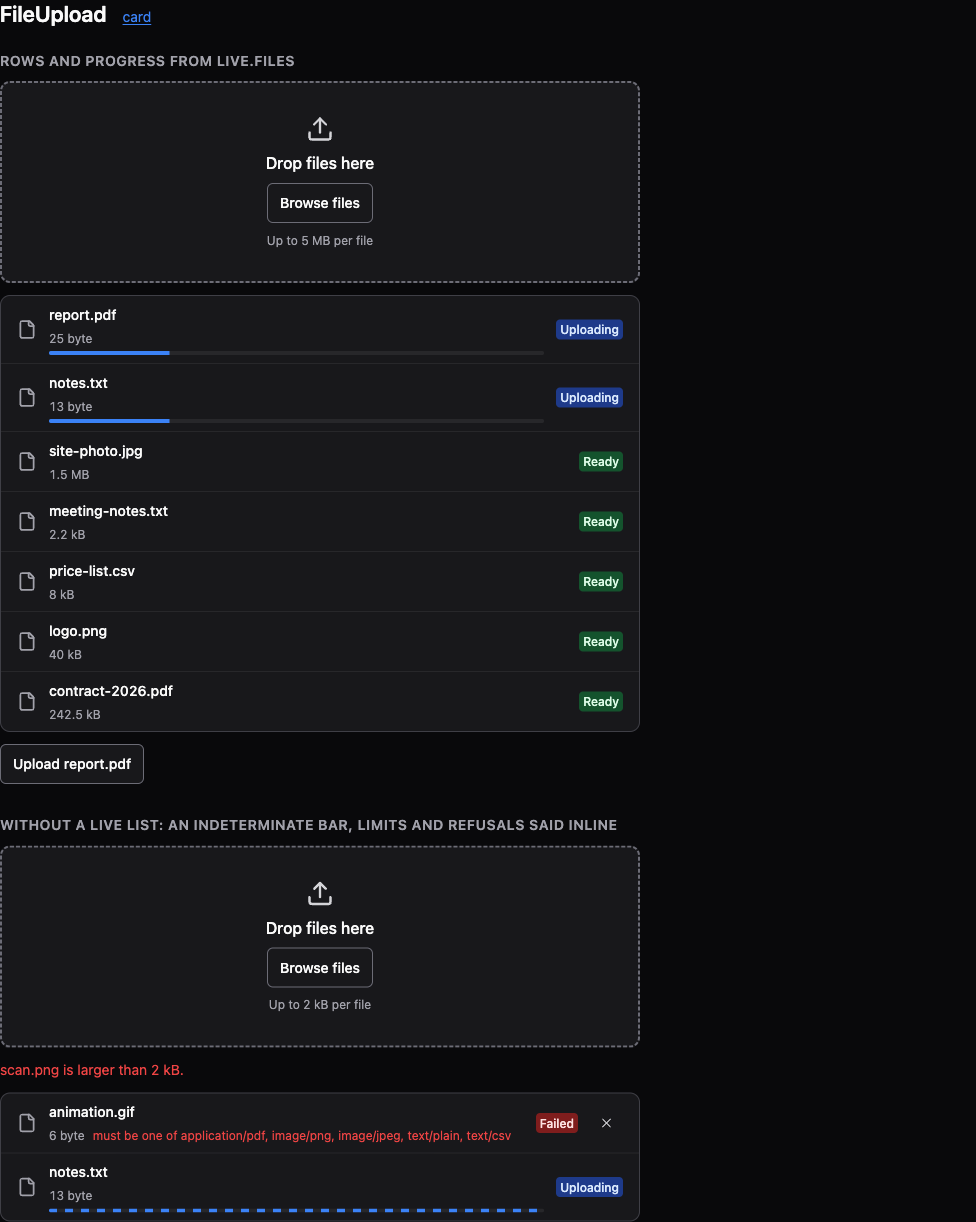
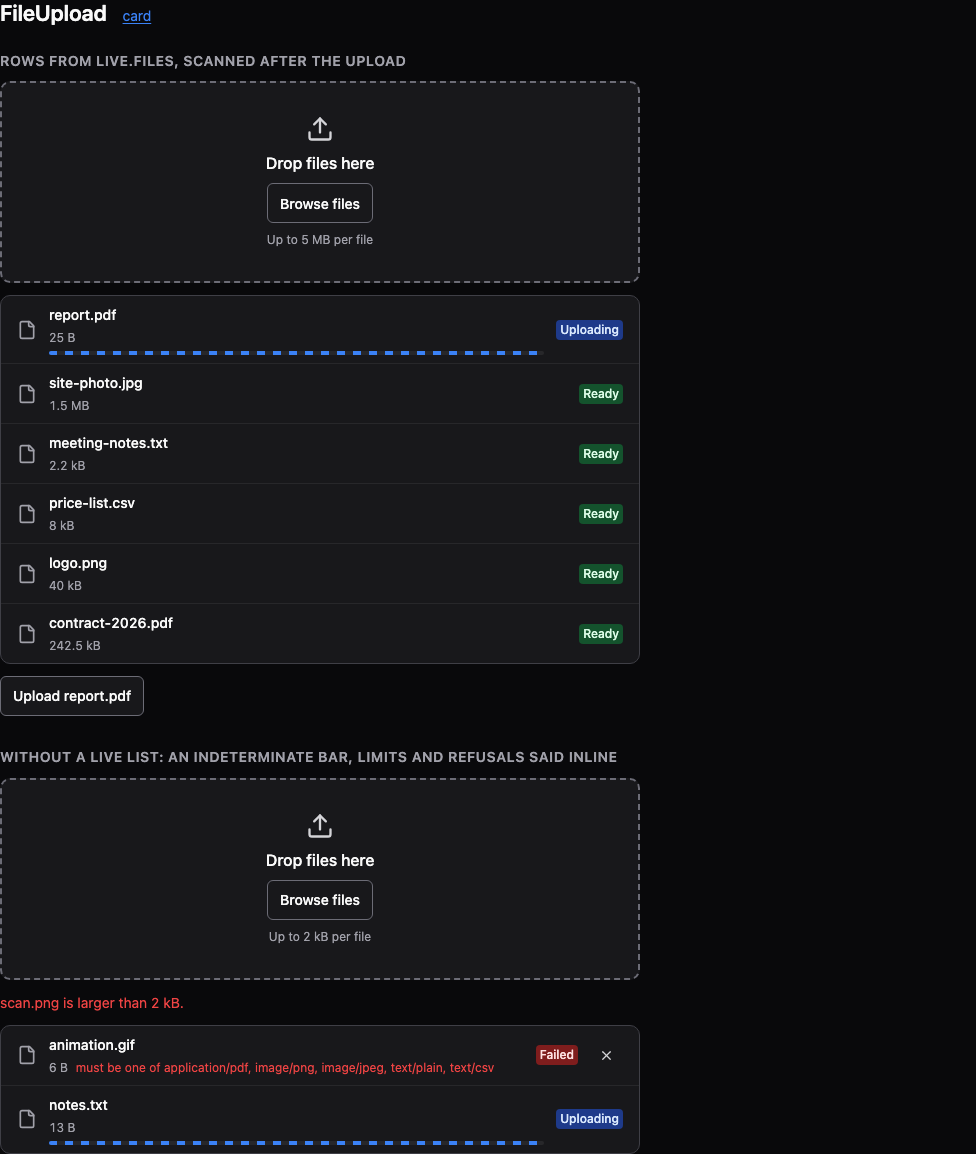
docs: decisions D73-D79, screenshots, index and the run report of the library sync

diff --git a/ui/blocks/JobProgress/JobProgress.vue b/ui/blocks/JobProgress/JobProgress.vue
@@ -56,11 +56,11 @@ const badge = computed(() => (current.value?.status === 'running' && current.val
   ? { variant: 'neutral' as const, label: 'ui.cancelling' }
   : badges[current.value?.status ?? 'queued']))
 
-// A list row carries no result (govengers/jobs leaves it out of the list): a succeeded row is
-// read once through the item read. A finished job never changes, so once is enough.
+// A list row carries no result (govengers/jobs leaves it out of the list): a succeeded row
+// without one is read once through the item read. A finished job never changes.
 const fetched = shallowRef<{ id: string; connection: unknown; result: unknown }>()
 const wantsResult = props.resultRoute !== undefined || slots.result !== undefined
-watch([() => (props.job?.status === 'succeeded' ? props.job.id : undefined), connection], async ([id, socket]) => {
+watch([() => (props.job?.status === 'succeeded' && props.job.result == null ? props.job.id : undefined), connection], async ([id, socket]) => {
   if (id === undefined || props.target === undefined || !wantsResult || (fetched.value?.id === id && fetched.value.connection === socket)) return
   try {
     const item = await socket.query(props.target, { id })
@@ -72,7 +72,7 @@ watch([() => (props.job?.status === 'succeeded' ? props.job.id : undefined), con
 const result = computed(() => {
   const job = current.value
   if (job?.status !== 'succeeded') return undefined
-  if (props.job === undefined) return job.result ?? undefined
+  if (props.job === undefined || job.result != null) return job.result ?? undefined
   return fetched.value?.id === job.id && fetched.value.connection === connection.value ? fetched.value.result ?? undefined : undefined
 })
 const route = computed(() => (result.value === undefined || current.value === undefined ? undefined : props.resultRoute?.(result.value, current.value)))

diff --git a/INDEX.md b/INDEX.md
@@ -70,7 +70,7 @@ Find by intent (Ctrl-F a word you would say), open the card, then the code next 
 | [FeedbackCapture](ui/blocks/FeedbackCapture/FeedbackCapture.md) | feedback, report a bug, bug report, send feedback, feature request, support request, console log capture, screenshot report | Dialog, Field, Select, Textarea, Checkbox, Banner, Button | yes | postels-law, teslers-law, peak-end-rule | ready | The report dialog (D65): kind (bug, idea, question), text and, for bugs, severity. When it opens it freezes the technical details: the last console errors and warnings, uncaught errors, failed requests (from the ring buffer `installFeedbackBuffer()` keeps), the environment, and through an optional hook a screenshot of the page taken before the dialog covers it. "Exactly what will be sent" prints the very report the Send button sends; unticking the details or the screenshot removes them from both. Credentials are redacted at any depth when they enter the buffer. |
 | [FileUpload](ui/blocks/FileUpload/FileUpload.md) | file upload, upload files, dropzone, drag and drop upload, attachments, upload progress, document upload, image upload | Badge, Button, Icon, format | yes | doherty-threshold, goal-gradient-effect, paradox-of-the-active-user | ready | A dropzone and the list of files being uploaded and uploaded. The dropzone is a `<label>` around the native file input, so a click, Enter and a drop all work. Each file shows its name, size, a progress bar, a status Badge and a remove button. Size and count limits are said inline. Uploads go through the pair's `Client.upload`. |
 | [ImpersonationBanner](ui/blocks/ImpersonationBanner/ImpersonationBanner.md) | impersonation, impersonate, act as user, login as user, support mode, admin acting as, stop impersonating, view as | Badge, Banner, Button, format, session | no | von-restorff-effect, selective-attention | ready | The shell's notice while an admin acts as another user through govengers/auth's impersonation (D59): "You are acting as Bob on behalf of Ada", the time left when the end is known, a Read-only badge when the app forbids writes, and "Stop acting as Bob". Renders nothing while the identity has no impersonator. Put it into `AppShell`'s `banners` slot next to `ConnectionBanner`. |
-| [JobProgress](ui/blocks/JobProgress/JobProgress.md) | job progress, background job, long running task, export progress, import status, progress bar, async result | Badge, Banner, Button, Skeleton, format | yes | doherty-threshold, goal-gradient-effect, peak-end-rule, teslers-law, zeigarnik-effect | ready | One background job (D29): what it does, its status badge, a progress bar while it runs, why it failed, and an "Open result" button once it succeeded with a result route. Follows the job live by id, or shows a job the page already reads; a compact `inline` variant fits a list row. |
+| [JobProgress](ui/blocks/JobProgress/JobProgress.md) | job progress, background job, long running task, export progress, import status, progress bar, async result, cancel job, retry job | Badge, Banner, Button, Skeleton, format | yes | doherty-threshold, goal-gradient-effect, peak-end-rule, teslers-law, zeigarnik-effect | ready | One background job (D29) as govengers/jobs answers it (its `postgresadapter.View`): what it does, its status badge, a progress bar while it runs (indeterminate until the job reports), the handler's last progress message, why it failed and what the failure's class means, Cancel and Retry when the page passes the jobs mutations, and "Open result" once it succeeded with a result the page can route to. Follows the job live by id, or shows a job the page already reads; a compact `inline` variant fits a list row. |
 | [LiveForm](ui/blocks/LiveForm/LiveForm.md) | live form, edit form state, useLiveForm, touched fields, dirty form, unsaved changes, save only changed fields, patch form, edit conflict, form field errors |  | yes | peak-end-rule, postels-law, teslers-law, zeigarnik-effect | ready | `useLiveForm` in `liveForm.ts`, a composable, not a component: the state of an edit form over one live record (D33). Save sends only the touched fields. A push refills only the untouched ones; a touched field keeps the user's text. Field errors come from `ApiError.fields`, and a retried save keeps its Idempotency-Key. Render it with `DetailForm` or with your own Field stack. |
 | [LoginForm](ui/blocks/LoginForm/LoginForm.md) | login form, sign in, log in, password login, user name or email, two-factor, 2fa code, backup code, one-time code, sso button, oidc login, github login, sso first | Card, Banner, Button, Field, Input | no | parkinsons-law, hicks-law | ready | The sign-in card against govengers/auth (D57): user name or email and password, the redirect providers (OIDC, GitHub) as buttons from a prop, and the TOTP step with a switch to a backup code. `layout="sso"` puts the providers first and the password form behind a link. The page passes `login` (the session module's `login` plus the navigation); a refusal with a known govengers/auth `code` shows as its own sentence. Centre it with the `LoginPage` recipe. |
 | [Markdown](ui/blocks/Markdown/Markdown.md) | markdown, render markdown, markdown editor, rich text, comment box, description editor, task list, paste image, drop image, mention, at mention, preview | Button, Icon, Tabs, Textarea, format | yes | jakobs-law, postels-law, aesthetic-usability-effect | ready | `MarkdownView` renders GitHub-flavoured markdown (task lists, tables, code, links, images) as sanitised HTML; `MarkdownEditor` is a Textarea with a format toolbar, a Write and Preview switch, images pasted, dropped or picked uploaded through an upload descriptor, and an `@` mention list the page feeds. The block brings two dependencies (D3, D66): `marked` (the renderer) and `dompurify` (the sanitiser). |
@@ -163,6 +163,7 @@ Every intent keyword and the pieces that answer it.
 - **button**: [Button](ui/Button/Button.md)
 - **bytes**: [format](ui/format.md)
 - **cancel and save**: [ActionBar](ui/ActionBar/ActionBar.md)
+- **cancel job**: [JobProgress](ui/blocks/JobProgress/JobProgress.md)
 - **card**: [Card](ui/Card/Card.md)
 - **cards on phone**: [Table](ui/Table/Table.md)
 - **change password**: [LoginPage](pages/LoginPage/LoginPage.md)
@@ -470,6 +471,7 @@ Every intent keyword and the pieces that answer it.
 - **report a bug**: [FeedbackCapture](ui/blocks/FeedbackCapture/FeedbackCapture.md)
 - **required**: [Field](ui/Field/Field.md)
 - **responsive table**: [Table](ui/Table/Table.md)
+- **retry job**: [JobProgress](ui/blocks/JobProgress/JobProgress.md)
 - **revoke key**: [ApiKeyManager](ui/blocks/ApiKeyManager/ApiKeyManager.md)
 - **rich text**: [Markdown](ui/blocks/Markdown/Markdown.md)
 - **row actions**: [Menu](ui/Menu/Menu.md), [Table](ui/Table/Table.md)

diff --git a/docs/design.md b/docs/design.md
@@ -401,3 +401,54 @@ switchable style presets.
   not the cards around it at lift time. A card another user put between the card above and the
   lifted one would otherwise draw the lifted card above it and turn a put-back into a move.
   Amends D71.
+
+## Sync with the libraries (16.11.2026)
+
+- **D73 The runtime is vendored from a livewire commit until it is released.** `demo/src/api/`
+  holds livewire `main` at 95e50bc (after v1.0.1, PR #13 merged, no tag yet), header naming the
+  commit; the next tag replaces it byte for byte. Amends D40. With it the collection drops its
+  workarounds: `useLiveList` keeps the rows and total of a changed query until the new first page
+  and drops them on the connection's end (livewire D76, D83), so `SearchTable` and `Board` read
+  `list.items` and `total` directly instead of holding the last rows per connection; the generic
+  `ListQuery`, `FilterDocument`, `SearchableFilterDocument` come from `runtime.ts` (livewire D78),
+  so `SearchTable`, `Board`, `NotificationInbox`, `CommandPalette`, `FacetFilter` and the demo's
+  `api.ts` stop redeclaring them.
+- **D74 The starter shell mounts the product pieces.** `templates/project/App.vue` mounts
+  `WhatsNew`, `UpdateHint`, `NotificationInbox`, `FeedbackCapture`, `ImpersonationBanner` and
+  `CommandPalette`, each as one marked block (import, state, tag) a project deletes when its
+  server side is missing; `main.ts` installs the feedback buffer, `changelog.ts` and
+  `changelog/0.1.md` feed WhatsNew. start-project stage 02 names what each needs from the
+  backend and asks which to keep. `scripts/template-check.ts` stands the generated `api.ts` in
+  with `scripts/fixtures/api.ts` (the declarations the shell names, excluded from the root
+  type-check because its `./runtime` exists only in the target) and parses the starter
+  changelog. Removal is a deletion, not a configuration flag: one way per job (P2).
+- **D75 JobProgress shows govengers/jobs' job view.** `JobLike` is the part of
+  `postgresadapter.View` the block reads: status `cancelled` added, `progress` nullable (an
+  indeterminate bar until the first report, never 0 %), `progressMessage`, `result`, `error`,
+  `errorClass` (a sentence for `permanent` and `lease_expired`), `cancelRequested` (badge
+  "Cancelling"). Cancel and Retry are bound to the mutations `livewireadapter` declares
+  (`cancelJob`, `retryJob`, props, `data-action` = their names), shown only when the page passes
+  them and the status allows (cancel while queued or running without a pending cancel, retry
+  when dead). The result comes from the item read, as the list leaves it out: a list row that
+  succeeded without one reads its item once (a finished job does not change), and a page's
+  `resultRoute(result, job)` turns it into the "Open result" link; a `result` slot shows a
+  summary. The view has no `resultRoute` field, so D29's row field is gone. The fake engine's
+  jobs follow the view (list items without result, cancel and retry with govengers/jobs' 409s).
+- **D76 FileUpload counts the bytes it sends.** `Client.upload`'s `onProgress` (livewire D79)
+  drives the bar; it stays indeterminate where the runtime cannot report (bun, `credentials:
+  'omit'`, an application fetch such as the demo's). Server rows no longer carry progress. A
+  server pushes the file's row before its answer arrives, so until the answer a row that joined
+  the list after the upload started, with the file's name and size, hides behind the upload; the
+  answer's id then hands over to the row. The fake engine inserts the row at the end of the body
+  and scans it afterwards (`scanning`, then `ready`).
+- **D77 LoginPage's `change` is optional.** Without it there is no change-password screen
+  (`state="changePassword"` shows the sign-in) and the starter router passes none, because
+  govengers/auth has no change-password route; `LoginRoute.vue` binds `loginProps` whole, so a
+  project that adds `change` there gets the screen.
+- **D78 The impersonation end comes from govengers/auth.** auth D70 answers
+  `impersonationEndsAt` on `/auth/me` while impersonating; `SessionIdentity` documents it and the
+  banner counts down without app code. `endsAt` stays as an override for older auth releases. An
+  unreadable end is no countdown, not an ended impersonation. Amends D59.
+- **D79 Mounted tests have a router and cover the page recipes.** `scripts/test/mount.ts`
+  installs a memory router (links render, navigation goes nowhere) and `setup.ts` exposes jsdom's
+  `history`; `bun test` runs `pages` too, so recipes get mounted tests like blocks (amends D69).

diff --git a/journal/runs/2026-11-16-maintain-collection-sync-with-libraries.md b/journal/runs/2026-11-16-maintain-collection-sync-with-libraries.md
@@ -1,0 +1,50 @@
+---
+date: 16.11.2026
+workbook: maintain-collection
+project: govengers/ui
+outcome: done
+duration: about 3 h
+groomed: no
+---
+
+## Task
+Sync the collection with the libraries: re-vendor the livewire runtime and drop the SearchTable,
+Board and FileUpload workarounds, JobProgress on govengers/jobs' view, LoginPage `change`
+optional, the starter shell with the product pieces, the impersonation end from govengers/auth.
+
+## What went wrong on first try
+- `bun test pages/...` mounting a piece with a `Button :to` -> vue-router threw `history is not
+  defined` during its first navigation, and the error cascaded into every later test of the file
+  as a vue-i18n compile error -> `setup.ts` exposes jsdom's `history`, `mount.ts` installs a
+  memory router (D79).
+- `scripts/template-check.ts` copied `templates/project/changelog/*.md` through the copy filter
+  that skips every `.md` -> the starter changelog was silently absent and its parse check passed
+  on nothing -> the copy takes a filter argument and the check also fails on zero lines.
+- The FileUpload mounted test passed with the duplicate-hiding switched off: under the fake's
+  latency 0 the row's push and the upload's answer render in one tick -> the test delays the
+  answer three turns behind the push, as a network does.
+
+## Instructions that were wrong or missing
+- workbooks/maintain-collection/stages/04-gates: `bun test scripts ui demo/src` left `pages`
+  out, so recipe tests would never run (fixed now: yes, also justfile, package.json, CI).
+- ui/session.md and ImpersonationBanner.md said govengers/auth does not answer the end (fixed
+  now: yes, auth D70).
+
+## Questions I had to ask the human
+- none
+
+## Pieces that did not fit
+- JobProgress: govengers/jobs' view has no `resultRoute`; the result is the handler's JSON and
+  only on the item read. Replaced by a `resultRoute(result, job)` prop and a `result` slot (D75).
+
+## Gate friction
+- vue-tsc type-checks `scripts/**`, so a fixture meant for the scaffolded target fails here;
+  excluded `scripts/fixtures` in tsconfig.
+
+## Time sinks
+- Making the FileUpload race reproducible in a mounted test.
+
+## Suggested improvements (for grooming)
+- script: template-check could run the starter's App.vue in jsdom with the fake engine to prove
+  the shell mounts, not only type-checks.
+- workbook start-project 05-verify: name the product pieces' server routes in the browser check.

diff --git a/TODO.md b/TODO.md
@@ -3,11 +3,9 @@
 Defects and ideas seen on the way, one line each with a date. Fixed items are removed.
 
 - 02.11.2026 demo: the demo app does not dogfood AppShell and AgentDock for its own chrome (D14 does not require it); switch when the dock is stable.
-- 02.11.2026 fake engine: no `updateOrder`, no `deleteFile`, jobs have no `error` field; WorkflowStatus and FileUpload demos work around it.
-- 02.11.2026 livewire upstream: findings in DeepThought "govengers-ui-build-lessons" are being fixed on livewire branch `fix/ui-findings`; re-vendor `demo/src/api/` afterwards (D40) and drop the SearchTable and FileUpload workarounds.
+- 02.11.2026 fake engine: no `updateOrder`, no `deleteFile`; the WorkflowStatus and FileUpload demos work around it.
 - 02.11.2026 messages: `ui.step` and `ui.stepOf` carry the same text; keep one.
-- 16.11.2026 LoginPage: `change` is required even when the app has no change-password route; make it optional and hide the state.
-- 16.11.2026 govengers/auth: `IdentityResponse` carries no impersonation end; ImpersonationBanner needs the app to add `impersonationEndsAt`.
 - 16.11.2026 ui-lint: UL-003 flags `font-family: var(--ui-font-mono)`; the rule should accept the font tokens.
 - 16.11.2026 Textarea: exposes only focus(); MarkdownEditor reaches the element through `$el`. Expose the element.
 - 16.11.2026 Board: auto-scroll only while the pointer moves near an edge; columns taller than the screen do not scroll during a drag.
+- 16.11.2026 demo runtime: vendored from livewire main 95e50bc (D73); re-copy from the next livewire tag.

diff --git a/ui/blocks/JobProgress/JobProgress.md b/ui/blocks/JobProgress/JobProgress.md
@@ -85,8 +85,8 @@ const resultRoute = (result: unknown) => ({ name: 'files.detail', params: { id: 
 For a list, read `live.jobs` once with `useLiveList` and give each row `:job="row"
 variant="inline"`: one subscription for the list instead of one per row. The list leaves the
 result out (`null` in its items), so give the rows `:target="live['jobs.item']"` too when they
-offer the result: a row that succeeded reads its item once (`connection.query`), a finished job
-does not change.
+offer the result: a row that succeeded without a result reads its item once
+(`connection.query`), a finished job does not change. A `job` that carries its result uses it.
 
 Cancel and Retry run over the socket; the answer upserts the job into every live read of `jobs`,
 so the badge changes at once. A running job's cancel is a request (`cancelRequested`, badge
@@ -119,5 +119,5 @@ row), progress steps are not.
   days by default), and with them the result: an unreadable item shows no result.
 - `progress` is `null` until the attempt's first report and again after a claim: the bar is
   indeterminate then, never 0 %. A failed job keeps the progress of its last attempt.
-- Copies before D74 read `resultRoute` from the job row and `progress` as a number: a re-copy
+- Copies before D75 read `resultRoute` from the job row and `progress` as a number: a re-copy
   needs the page's `resultRoute` function instead.

diff --git a/journal/2026-11.md b/journal/2026-11.md
@@ -2,3 +2,4 @@
 16.11.2026 maintain-collection session-and-starter - session module, LoginForm on govengers/auth, DevLogin, ImpersonationBanner, ApiKeyManager, starter router/session/vite templates checked by script (D56-D61); run report runs/2026-11-16-maintain-collection-session-and-starter.md
 16.11.2026 maintain-collection product-pieces - done: changelog, WhatsNew (D62), Changelog, UpdateHint, NotificationInbox, FeedbackCapture; run report journal/runs/2026-11-16-maintain-collection-product-pieces.md
 16.11.2026 maintain-collection board-markdown-palette - Board, Markdown and CommandPalette blocks added, fake tasks and moveTask; run report journal/runs/2026-11-16-maintain-collection-board-markdown-palette.md
+16.11.2026 maintain-collection sync-with-libraries - done: runtime from livewire main 95e50bc, workarounds dropped, JobProgress on the jobs view, LoginPage change optional, starter shell with the product pieces, impersonation end from auth (D73-D79); run report journal/runs/2026-11-16-maintain-collection-sync-with-libraries.md
